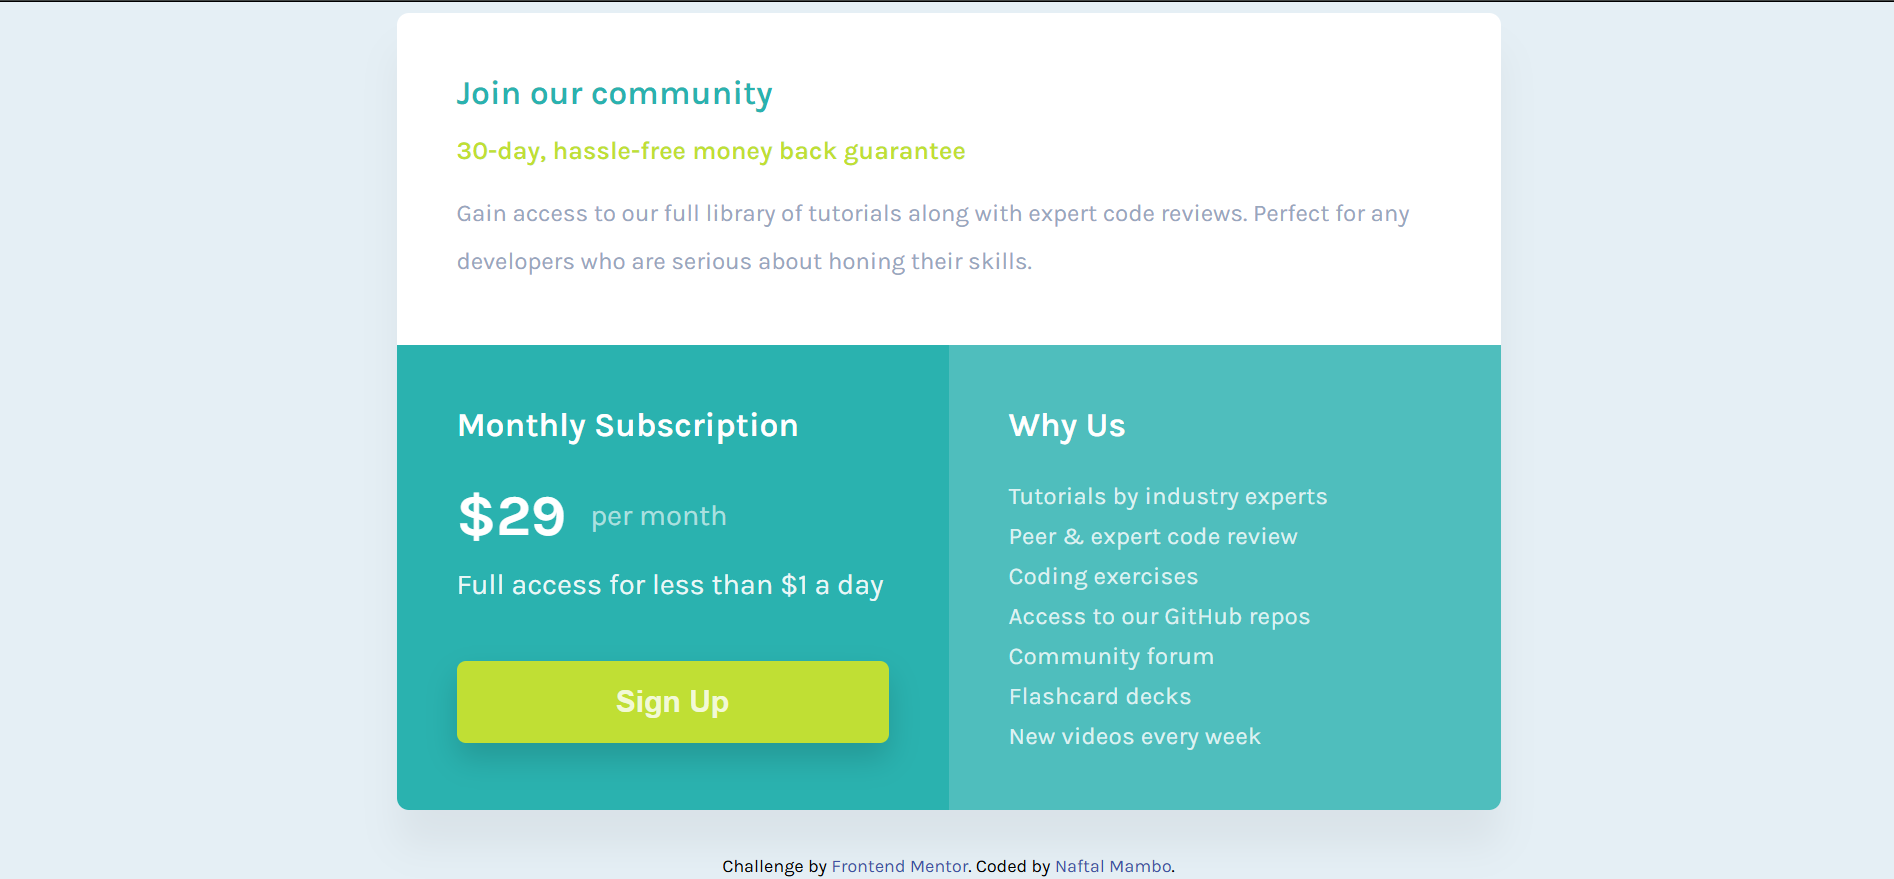
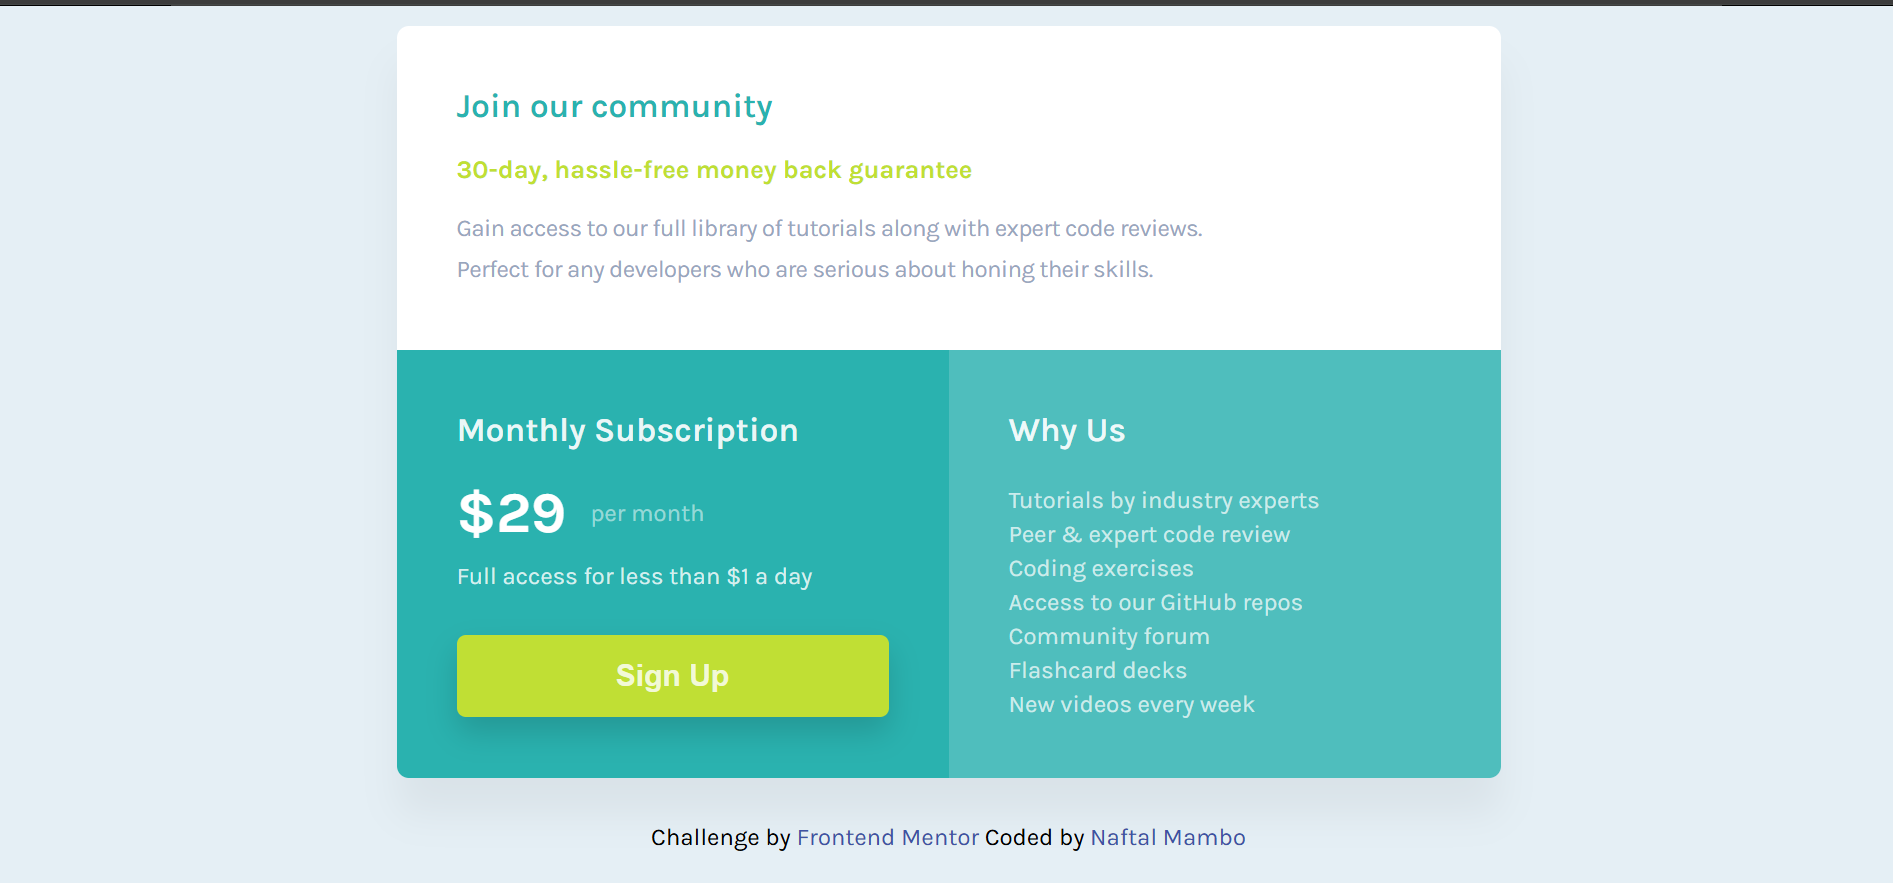
Add desktop-version of screenshot link my github acc at the attribution

diff --git a/index.html b/index.html
@@ -65,7 +65,7 @@
     <footer class="attribution">
       Challenge by
       <a href="https://www.frontendmentor.io?ref=challenge">Frontend Mentor</a>
-      Coded by <a href="#">Naftal Mambo</a>
+      Coded by <a href="https://github.com/naftalmambo">Naftal Mambo</a>
     </footer>
   </body>
 </html>